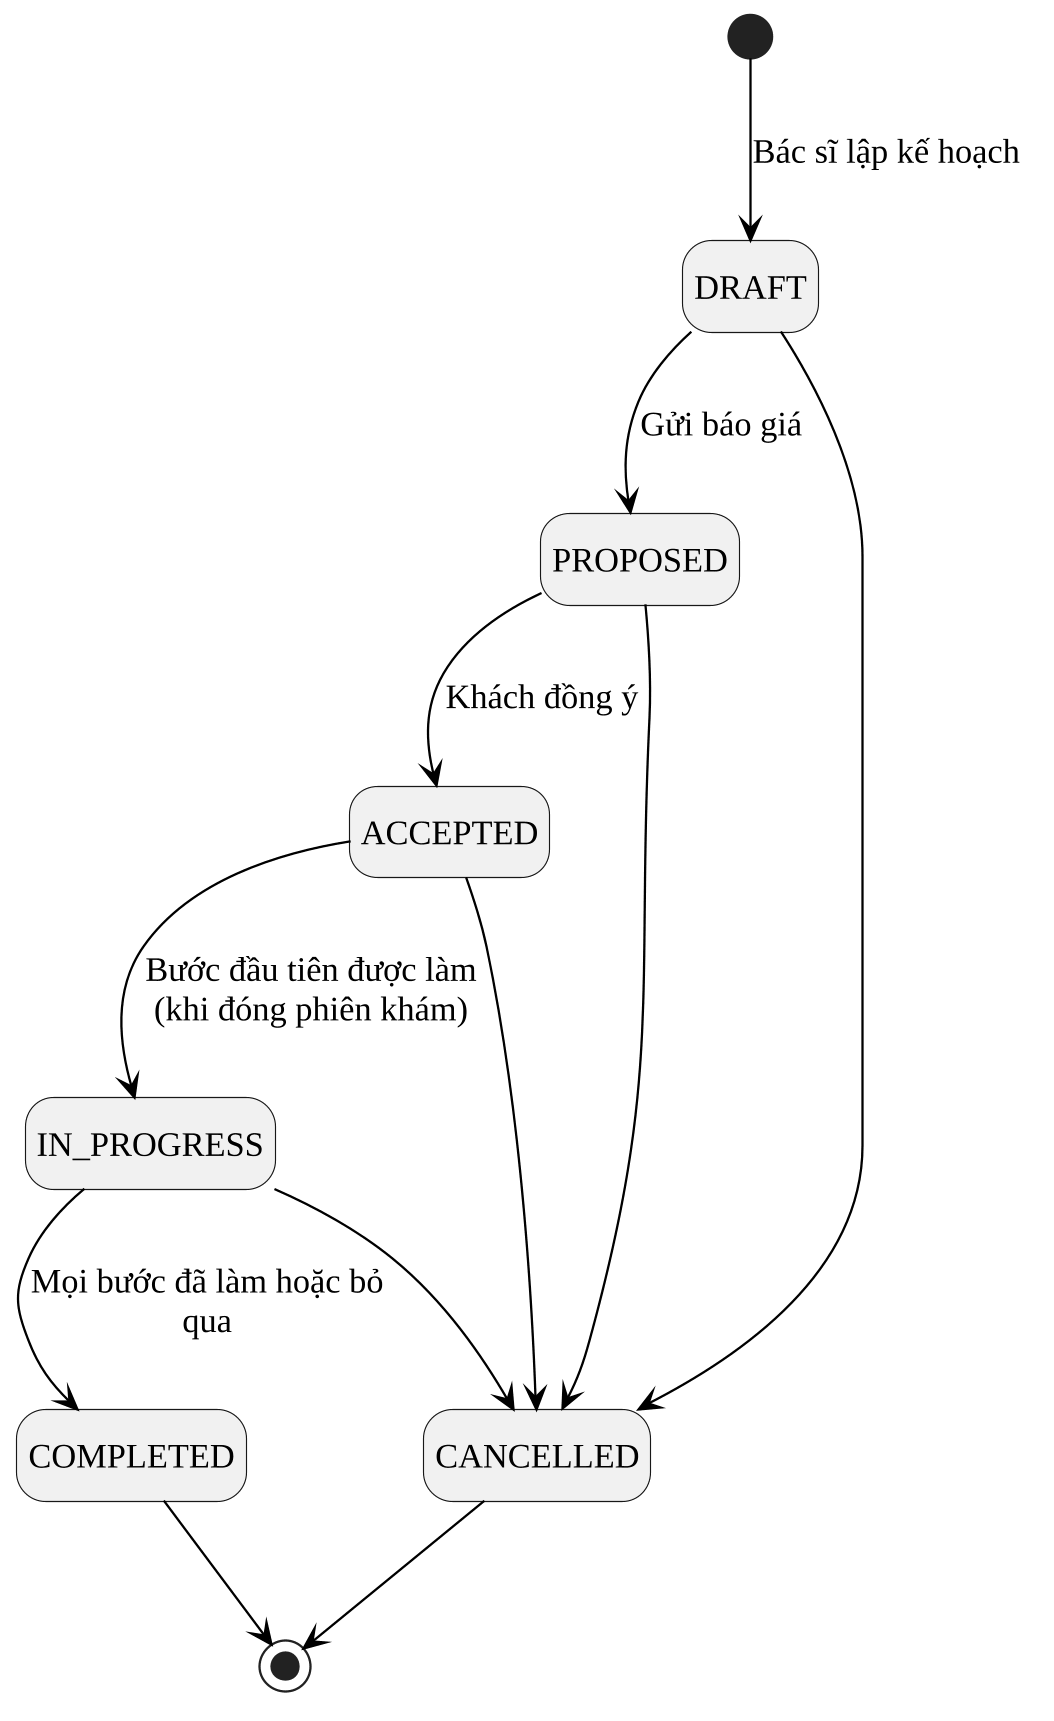
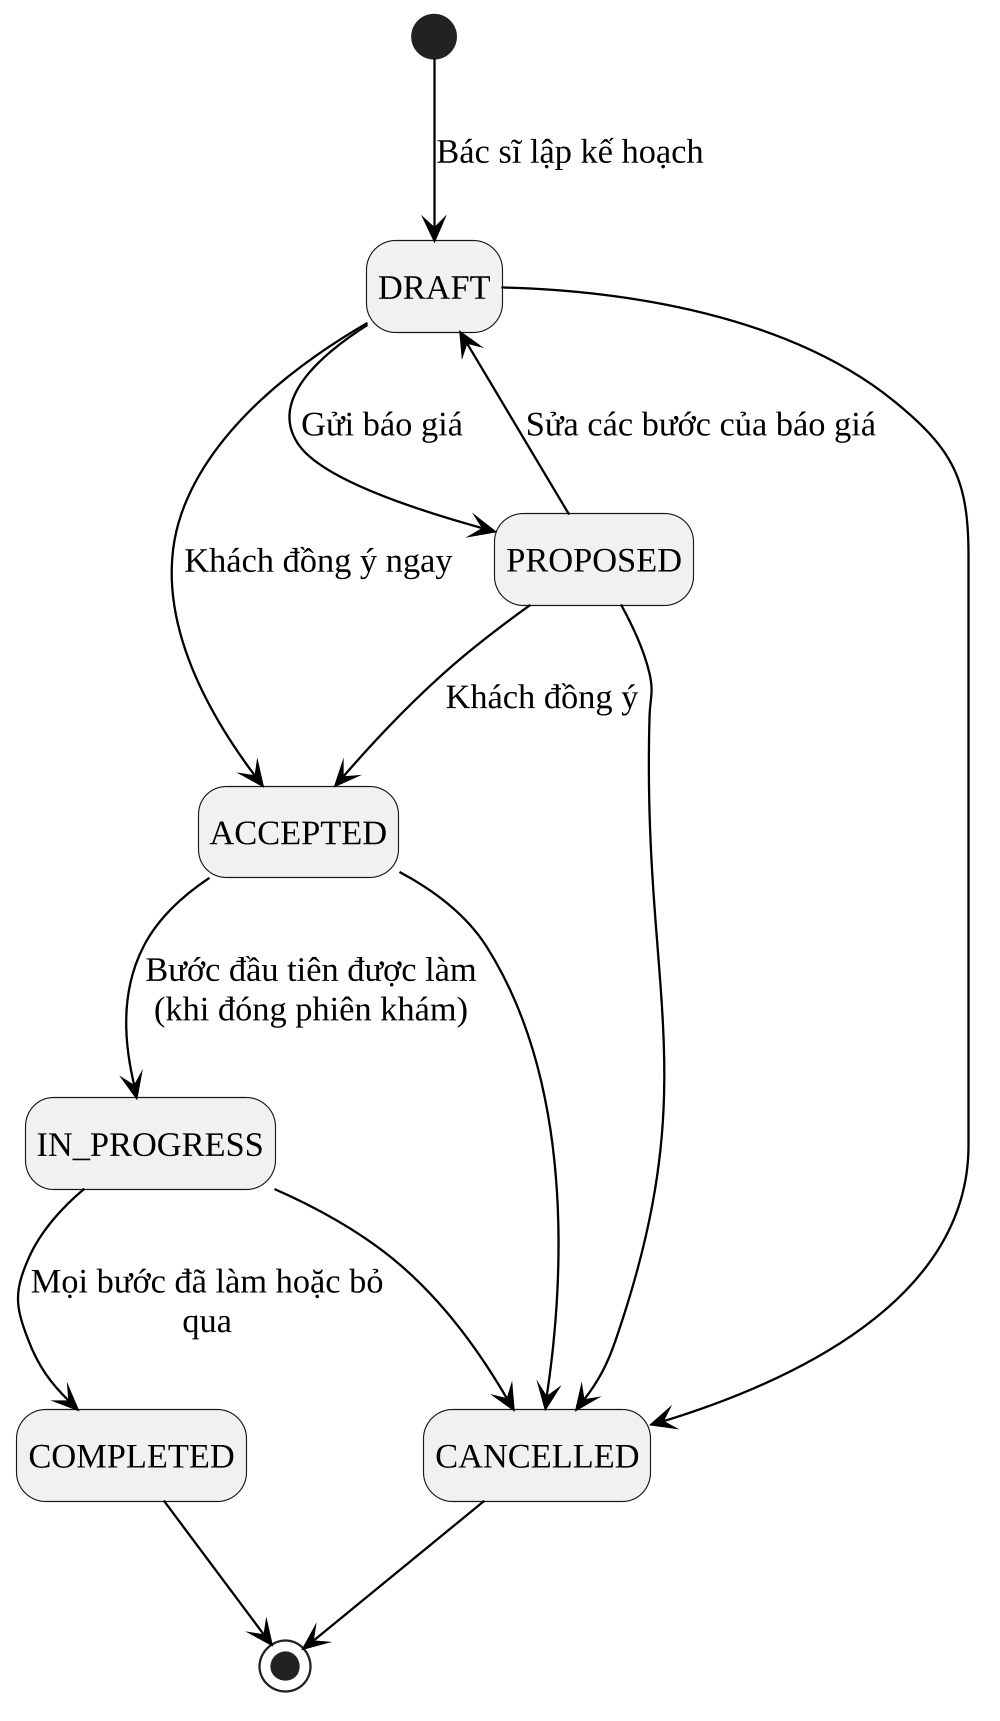
docs(thesis): bổ sung chuyển trạng thái phiên khám, kế hoạch, chi phí theo đúng mã
Claude-Session: https://claude.ai/code/session_01TBoubatqgAjjLj8yNYh2bv

diff --git a/docs/10_Thesis/bao-cao/13-chuong-3.md b/docs/10_Thesis/bao-cao/13-chuong-3.md
@@ -345,7 +345,7 @@ Nguồn: Tác giả
 
 ### 3.3.4. Kế hoạch điều trị
 
-Kế hoạch điều trị gồm nhiều dòng, mỗi dòng là một thủ thuật kèm số răng, số lượng và đơn giá. Khi bệnh nhân đồng ý, giá trong kế hoạch trở thành giá đã chốt: lúc bác sĩ chọn dòng kế hoạch trong phiên khám, giá được lấy theo kế hoạch thay vì bảng giá hiện hành. Trạng thái kế hoạch được tính từ tiến độ các dòng (Hình 3.17). Các kế hoạch đã đồng ý mà bệnh nhân chưa đặt lịch được đưa vào danh sách "điều trị chờ đặt lịch" để lễ tân gọi mời.
+Kế hoạch điều trị gồm nhiều dòng, mỗi dòng là một thủ thuật kèm số răng, số lượng và đơn giá. Khi bệnh nhân đồng ý, giá trong kế hoạch trở thành giá đã chốt: lúc bác sĩ chọn dòng kế hoạch trong phiên khám, giá được lấy theo kế hoạch thay vì bảng giá hiện hành. Trạng thái kế hoạch được tính từ tiến độ các dòng (Hình 3.17); nếu bác sĩ sửa các bước của một báo giá đã gửi, kế hoạch quay về nháp để báo giá cũ không bị hiểu là đã chốt. Các kế hoạch đã đồng ý mà bệnh nhân chưa đặt lịch được đưa vào danh sách "điều trị chờ đặt lịch" để lễ tân gọi mời.
 
 ::: {custom-style="Ảnh"}
 ![](hinh/3-15-trang-thai-ke-hoach.png){width=11cm}
@@ -640,7 +640,7 @@ Hình 3.31. Biểu đồ hoạt động quản lý dịch vụ và phân công b
 Nguồn: Tác giả
 :::
 
-**Chi phí vận hành.** Các khoản chi của phòng khám (vật tư ngoài kho, điện nước, sửa chữa, đầu tư) được ghi thành phiếu chi phí đi qua quy trình duyệt ở Hình 3.32, làm cơ sở cho báo cáo lợi nhuận.
+**Chi phí vận hành.** Các khoản chi của phòng khám (vật tư ngoài kho, điện nước, sửa chữa, đầu tư) được ghi thành phiếu chi phí đi qua quy trình duyệt ở Hình 3.32, làm cơ sở cho báo cáo lợi nhuận. Người tạo phiếu không tự duyệt được phiếu của mình (tách nhiệm vụ), nên mỗi khoản chi luôn có hai người xác nhận.
 
 ::: {custom-style="Ảnh"}
 ![](hinh/3-29-trang-thai-chi-phi.png){width=10cm}

diff --git a/docs/progress/session-log.md b/docs/progress/session-log.md
@@ -140,3 +140,4 @@
 - Đối chiếu số liệu nghiệp vụ Chương 3 (check-in, nhắc lịch, link 7 ngày/256 bit, tự lưu 1,5 s, 5 lần đăng nhập/phút, gợi ý nhập 30 ngày, mục tiêu KPI): đều khớp. Bảng 3.5 thêm cột ngưỡng chấp nhận (okAt) và câu giải thích tô 3 mức.
 - 3.4.1: bổ sung phát hiện dùng lại mã làm mới (thu hồi mọi phiên, REFRESH_REUSE_DETECTED) và khóa tài khoản 15 phút sau >5 lần sai (đã đối chiếu auth.service.ts).
 - Đối chiếu chuyển trạng thái: Hình 3.8 lịch hẹn thêm NO_SHOW→CHECKED_IN (đến muộn, có lý do) và LEFT→CHECKED_IN (hoàn tác), ghi rõ luật hủy; Hình 3.18 hóa đơn thêm hủy phiếu thu (PAID→PARTIAL→ISSUED), điều kiện hủy hóa đơn, lập lại hóa đơn; cập nhật đoạn mô tả. Kỳ lương, đăng ký ca khớp sẵn.
+- Đối chiếu chuyển trạng thái còn lại: phiên khám (điều kiện hủy/mở lại, encounter.reopen, hủy hóa đơn nháp), kế hoạch (DRAFT→ACCEPTED, PROPOSED→DRAFT khi sửa báo giá), chi phí (không tự duyệt); nhắc tái khám khớp sẵn. Vẽ lại 3 hình, bổ sung đoạn mô tả.
